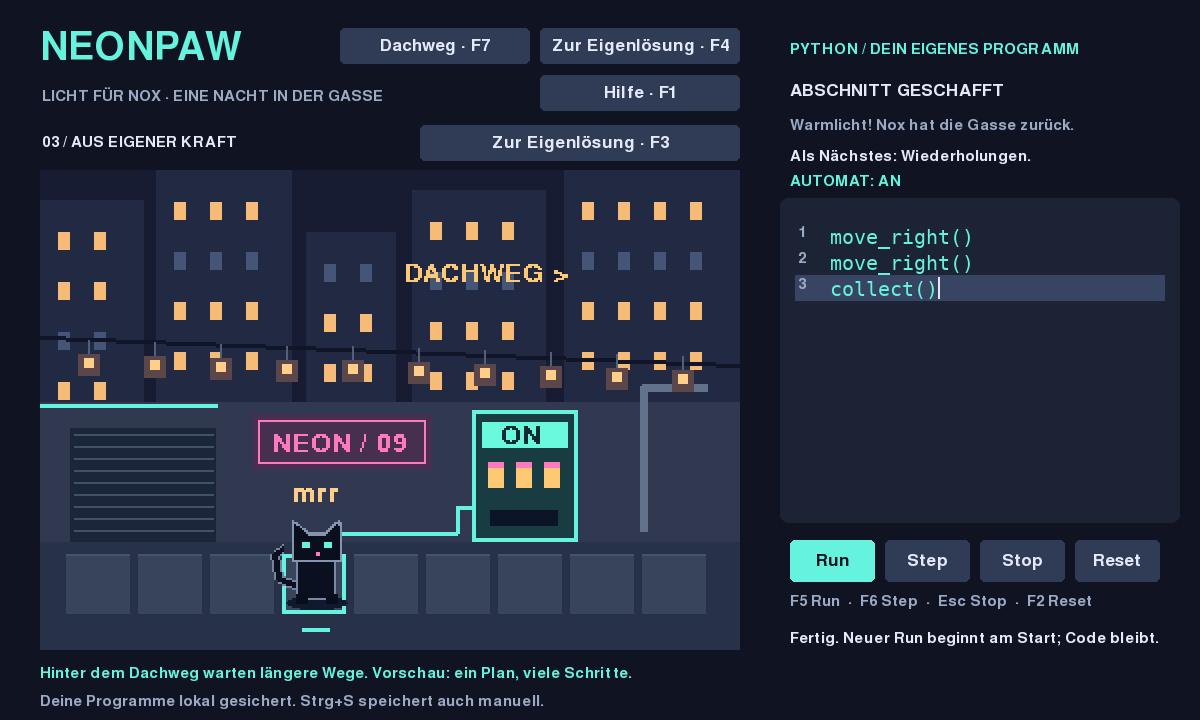
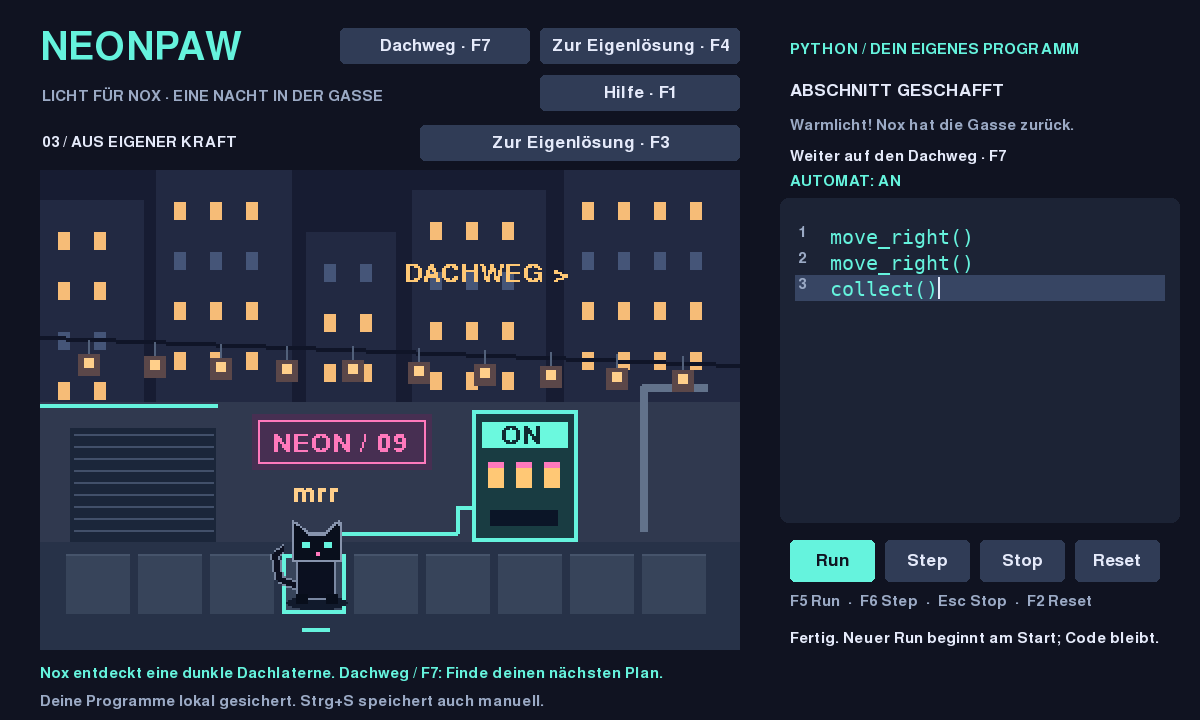
fix: guide completed episode into playable rooftop and verify CI

Changed region(s): [[0.0308, 0.9167, 0.555, 0.9472], [0.6475, 0.2139, 0.8633, 0.2444]]

diff --git a/neonpaw/ui/app.py b/neonpaw/ui/app.py
@@ -461,7 +461,7 @@ class App:
         self.text(heading, (790, 82), INK)
         if world.powered:
             hint = 'Ziel erreicht — mit Codebeispiel.' if self.used_example else 'Warmlicht! Nox hat die Gasse zurück.'
-            instruction = 'Als Nächstes: Wiederholungen.' if self.recall_active else ('Dein eigener Plan? Selbst schreiben mit F4.' if self.scenario else 'Der zweite Anschluss wartet. Weiter mit F3.')
+            instruction = 'Weiter auf den Dachweg · F7' if self.recall_active else ('Dein eigener Plan? Selbst schreiben mit F4.' if self.scenario else 'Der zweite Anschluss wartet. Weiter mit F3.')
         elif self.recall_active:
             hint, instruction = 'Bring das Licht mit deinem eigenen Plan zurück.', 'Deine Eigenlösung wartet unter Zurück.'
         elif self.scenario:
@@ -547,7 +547,7 @@ class App:
             line += word + ' '
         self.text(line, (790, y), PINK if self.runner.error else INK, self.small)
         if world.powered:
-            objective = ('Hinter dem Dachweg warten längere Wege. Vorschau: ein Plan, viele Schritte.'
+            objective = ('Nox entdeckt eine dunkle Dachlaterne. Dachweg / F7: Finde deinen nächsten Plan.'
                          if self.recall_active else 'Nox schnurrt. Dein Programm bringt das Licht zurück in die Gasse.')
         elif self.recall_active:
             objective = 'Baue dein Programm selbst. Deine Eigenlösung bleibt in dieser Sitzung erhalten.'

diff --git a/tests/test_episode.py b/tests/test_episode.py
@@ -55,7 +55,7 @@ def test_power_changes_alley_beyond_machine_and_reset_restores_it():
     pygame.quit()
 
 
-def test_complete_episode_shows_finish_and_honest_preview(monkeypatch):
+def test_complete_episode_invites_playable_roof_and_preserves_solution(monkeypatch):
     pygame.init()
     app = App()
     unlock(app)
@@ -72,9 +72,15 @@ def test_complete_episode_shows_finish_and_honest_preview(monkeypatch):
     monkeypatch.setattr(app, 'text', record)
     app.draw()
     assert 'ABSCHNITT GESCHAFFT' in rendered
-    assert any('Wiederholungen' in line for line in rendered)
+    assert any('Dachweg' in line and 'F7' in line for line in rendered)
+    assert not any('Vorschau' in line for line in rendered)
     assert app.source == SOLUTION
     assert app.runner.world.powered
+    app.handle(pygame.event.Event(pygame.KEYDOWN, key=pygame.K_F7, mod=0))
+    assert app.roof_active and app.runner.world.battery_x == 6
+    assert 'for ' not in app.source
+    app.handle(pygame.event.Event(pygame.KEYDOWN, key=pygame.K_F7, mod=0))
+    assert app.source == SOLUTION and app.recall_active
     pygame.quit()
 
 

diff --git a/CURRENT.md b/CURRENT.md
@@ -1,14 +1,9 @@
-# CURRENT — 2026-11-06 — Dachweg-Checkpoint
+# CURRENT — 2026-11-06 — Dachweg und CI integriert
 
-- M: Branch g0/first-cat-action; Runner-Commit 3461d94. Dachweg-UI und Speichermigration werden im anschließenden Checkpoint gesichert; vollständige SHA mit git log -1 ermitteln.
-- M: Dachweg mit Zielposition 6, sichtbarem Fortschritt, optionaler Schleifenhilfe erst nach erlebter Wiederholung; ausgeschriebene Befehle bleiben gültig. Run/Step/Stop/Reset mit begrenztem for/range. Drei getrennte Entwürfe; alte Speicherversion 1 lesbar, neue Version 2.
-- M: Erneut 130 Tests bestanden. RED-Nachweise: evidence/roof-loops-red.txt (13 failed), roof-ui-red.txt (6 failed); GREEN roof-green.txt. SDL-Offscreen-Smoke laut roof-smoke.txt erfolgreich, einschließlich Dachweg und Entwurfswiederherstellung; kein menschlicher Bediennachweis.
-- M: Beim Automationsauftrag uncommittete Dachweg-Arbeit gefunden und ohne Reset beibehalten. Prozessprüfung: ein aktiver Codex-Hauptprozess mit eigenen Sandbox-Unterprozessen, alte Git-Zombies, kein laufender pytest-/Spielprozess. Keine weiteren Agenten gestartet. Diese lokale Momentaufnahme garantiert keinen globalen Instanzausschluss.
-- M: Keine native Automationsverwaltung verfügbar: gewünschter 60-Minuten-Takt NICHT aktiviert, kein erfolgreicher automatischer Lauf bestätigt. Kein Ersatz-Scheduler eingerichtet. Anforderungen in AUTONOMOUS_LOOP.md.
-- Offen: abschließende visuelle Prüfung der Dachweg-Screenshots, Sicherheits-/README-Dokumentation aktualisieren, Quellbuild erstellen und separat testen, GitHub-Abgleich/Push. PR-Bestand unbekannt (bisher API Forbidden). Menschlicher Lernwert/Spielspaß und nativer Windows-Test offen.
-- Wiederaufnahme: Git-Status und Prozesse zuerst prüfen, vorhandene Arbeit sichern; keine Doppelimplementierung des Dachwegs. NEXT_TASK.md enthält verbleibende Abschlussarbeiten.
-
-## CI-Integration — 2026-11-06
-- M: Lokaler Ausgangspunkt 5d3d559 sauber, Bundle geprüft, 130 Tests reproduziert. Fetch brachte 37aa6fb (CI) und bae7b57 (Handoff); konfliktfreier normaler Merge 13fa15d vereint beide mit dem Dachweg. Workflow unverändert erhalten.
-- M: Nach Integration 130 Tests bestanden; SDL-Smoke sowohl offscreen als auch dummy erfolgreich. Belege: evidence/ci-integration-tests.txt, ci-integration-smoke.txt, ci-dummy-smoke.txt.
-- GitHub-Actions-Ergebnis noch zu prüfen; lokale Tests sind kein CI-Nachweis. Nur Test-CI konfiguriert, kein Codex-Entwicklungs-Scheduler.
+- M: Ausgangspunkt 5d3d559 sauber, Bundle geprüft, 130 Tests reproduziert. Remote enthielt 37aa6fb (CI) plus bae7b57 (Handoff). Normaler konfliktfreier Merge 13fa15d erhält beide Entwicklungsstränge und die unveränderte CI. 08c07aa erfolgreich gepusht und Remote-SHA geprüft.
+- M: GitHub-Actions-Lauf #3 für 08c07aa erfolgreich: https://github.com/essenmitpassion-sudo/Catworld/actions/runs/42239921670 . Über öffentliche Actions-Webseite geprüft; API-Zugriff am Proxy mit 403 gesperrt. Auch Läufe #1/#2 erfolgreich. Auszug evidence/github-ci-integration.json.
+- M: Nach Integration 130 Tests sowie SDL-Smoke mit offscreen und CI-Treiber dummy erfolgreich. Anschließend veraltete Vorschau im Abschluss korrigiert: Dachweg / F7 führt direkt weiter; Eigenlösung bleibt bei Rückkehr erhalten. Reproduzierter RED, danach 130 GREEN und voller SDL-Smoke. evidence/roof-transition-*.txt.
+- M: Spielbar: Einstieg, eigene Ergänzung, Transfer, leerer Abrufeditor, Dachweg mit Ziel 6. Wiederholte Befehle und begrenzte for/range-Schleifen, freiwillige Hinweise, sichtbare Laterne. Drei getrennte Entwürfe, alte Speicherversion lesbar. README/Sicherheitsbeschreibung aktualisiert. Screenshots für Hilfe, Erfolg und Übergang visuell geprüft.
+- Automation: nur Test-CI; kein aktivierter Codex-Entwicklungs-Scheduler. Keine neuen Dienste, API-Keys, Runner oder Eingriffe in andere Anwendungen.
+- Offen: menschlicher Lernwert/Spielspaß, nativer Windows-/DPI-Test, unabhängiger Security-Audit. Build bleibt Python-Quellbuild mit Startskript. Finale SHA über git log -1; Bundle/Build unter /workspace/Catworld-Roof.*.
+- Nächste einzelne Produktaufgabe: Dachweg-Transfer mit verändertem Ziel und selbst angepasster Wiederholungszahl, bisherige Lösung erhalten. Keine neue Sprachidee oder Engine. Vorher echten Git-/Prozessstand und frische Reviews prüfen.

diff --git a/README.md b/README.md
@@ -33,8 +33,9 @@ SDL-Oberfläche offscreen gerendert und über ihre Ereigniswarteschlange geprüf
 2. Eigenen Code für die Batterie ergänzen. Der Automat und die Lampenkette reagieren.
 3. **Weiter / F3:** den zweiten Anschluss mit einer selbst geänderten Folge versorgen.
 4. **Selbst schreiben / F4:** aus leerem Editor einen eigenen Plan bauen.
-5. Am Abschluss den leuchtenden Dachweg entdecken. **Wiederholungen sind ein Ausblick,
-   noch kein freigeschalteter Befehl in diesem Build.**
+5. **Dachweg / F7:** die weiter entfernte Dachlaterne erreichen. Erst bekannte Schritte
+   ausprobieren; nach erlebter Wiederholung bietet F1 freiwillige Hilfe zu `for`/`range`.
+   Schreibe deinen Plan selbst. Zurück / F7 erhält deinen bisherigen Entwurf.
 
 Hilfen bleiben freiwillig. Tippfehler wie `move_rigth()` geben einen konkreten Hinweis,
 ändern den Text aber nicht. Nox bewegt sich animiert, blinzelt und reagiert auf Erfolg;
@@ -71,8 +72,12 @@ Aufnehmen erklärt den Fehler; Reset stellt Batterie und Automaten wieder her.
 Am Ende der Gasse bleibt die Bewegung sicher begrenzt.
 
 Die unterstützte Python-Teilmenge umfasst parameterlose `move_right()`- und `collect()`-Aufrufe, Kommentare,
-Leerzeilen und Python-Anweisungssequenzen. Schleifen und andere Python-Funktionen
-sind noch nicht freigeschaltet. Kein vollständiger Python-Interpreter.
+Leerzeilen und Python-Anweisungssequenzen sowie begrenzte `for name in range(...)`-Schleifen.
+`range` akzeptiert ein bis drei ganzzahlige Literale von -64 bis 64; Schrittweite null
+ist ungültig. Höchstens 64 Schleifendurchläufe insgesamt und 64 ausgeführte Aktionen.
+Keine Verschachtelung, Variablenverwendung oder weiteren Python-Funktionen.
+Step führt auch in Schleifen genau eine Aktion aus; Run setzt pausierte Versuche fort.
+Enter übernimmt die Einrückung, Tab/Shift+Tab rückt ein/aus. Kein vollständiger Python-Interpreter.
 
 ## Vom Vormachen zum eigenen Programm
 
@@ -97,7 +102,7 @@ die drei Hilfestufen bleiben optional. Deine bisherige Eigenlösung wartet unter
 Zurückwechseln erhalten. Reset setzt nur die Welt zurück, nicht deinen Text.
 
 Beim Wechsel innerhalb der Sitzung bleiben beide Texte, Cursor und Hilfestatus
-erhalten. Beide Texte und die Kennzeichnung verwendeter Beispiele werden zusätzlich
+erhalten. Beide Texte sowie der getrennte Dachweg-Entwurf und verwendete Beispiele werden zusätzlich
 lokal gespeichert und nach einem Spielneustart wiederhergestellt. Die Welt startet
 am Anfang; geladener Code läuft erst nach Run oder Step.
 Ein leeres Programm schaltet den Automaten nicht ein. Erfolg zeigt die Weltreaktion,

diff --git a/G0_SECURITY.md b/G0_SECURITY.md
@@ -2,15 +2,21 @@
 
 Der Runner interpretiert ausschliesslich vollständig validierte AST-Formen
 `Expr(Call(Name(action), args=[], keywords=[]))` mit action aus der festen Menge
-`move_right`, `collect`. Aus dem AST werden nur
+`move_right`, `collect`, zusätzlich begrenzte Top-Level-For-Schleifen. Aus dem AST werden nur
 Zeilennummern und validierte Aktionsnamen übernommen, keine ausführbaren Python-Objekte. Es gibt weder eval,
 exec, compile-Ausführung, dynamische Imports noch Spielercode-I/O.
 Python wird mit ast.parse gelesen; Grammatik, Kommentare und Reihenfolge entsprechen
 der ausdrücklich unterstützten Teilmenge. Alle anderen Konstrukte werden abgewiesen.
 
 Budgets: 4096 Zeichen vor dem Parser, 320 AST-Knoten, Tiefe 16, 64 Befehle,
-64 Ausführungsschritte. Konstanten/Container/Schleifen/Rekursion werden nicht
-interpretiert. Ein Tick verarbeitet höchstens einen Befehl, auch nach langen Frames.
+64 Ausführungsschritte. For-Schleifen erlauben nur `range` mit 1–3 vorzeichenbehafteten
+ganzzahligen Literalen (Betrag höchstens 64, kein bool, keine Ausdrücke, Schrittweite
+ungleich null). Python-range-Semantik, auch leere und absteigende Bereiche. Höchstens
+64 Durchläufe insgesamt und 64 expandierte Aktionen, vor Expansion geprüft.
+Schleifenvariable nur einfacher Name, ohne Überschreiben von range oder Aktionsnamen;
+keine Verwendung der Variable im Rumpf. Keine Verschachtelung, for-else, break oder
+continue. Auch leere Schleifenrümpfe werden vollständig statisch validiert.
+Container, Rekursion und allgemeine Ausdrucksauswertung bleiben ausgeschlossen. Ein Tick verarbeitet höchstens einen Befehl, auch nach langen Frames.
 Stop wird vor dem nächsten Tick verarbeitet. Ein ungültiges Programm wird vollständig
 abgewiesen, bevor irgendeine seiner Aktionen ausgeführt wird. Weltzustand ist immutable.
 
@@ -42,3 +48,7 @@ AST-Prüfung. Keine Ausführung von JSON, keine Pfade aus gespeicherten Daten.
 Temporärdatei + fsync + atomarer Ersatz sichern gültige Schreibvorgänge; vorherige
 Fassung als Backup. Beschädigte Originale bleiben zur Wiederherstellung erhalten.
 Dies bleibt keine allgemeine Sandbox für fremde Python-Programme.
+
+Dachweg-Speicherformat: Version 2 ergänzt einen separaten Dachentwurf; Version 1
+bleibt lesbar. Alle drei Programme teilen die Dateigröße von höchstens 65536 Bytes;
+diese Grenze wird auch vor dem Schreiben der UTF-8-JSON-Datei geprüft.

diff --git a/NEXT_TASK.md b/NEXT_TASK.md
@@ -1,11 +1,15 @@
-# Nächste Aufgabe: Dachweg abschließen, dann Transfer
+# Nächste Aufgabe: Wiederholung übertragen
 
-Dachweg und begrenzte for/range-Ausführung sind implementiert, 130 Tests grün.
-Nicht erneut implementieren. Zuerst Prozesse/Git-Status und neue Reviews prüfen.
+Dachweg und for/range sind umgesetzt; nicht doppelt implementieren. 130 Tests und
+SDL-Smokes grün. CI-Integration auf GitHub erfolgreich (Lauf #3, 08c07aa).
 
-1. Screenshot evidence/roof-start.png, roof-hint.png, roof-solved.png visuell prüfen.
-2. Speicherformat-2-Grenzfälle und Rückkehr aus aktivem Abruf überprüfen; nur relevante Fehler mit RED/GREEN korrigieren. README und Sicherheitsdokumentation an erlaubte Schleifen und drei Entwürfe anpassen.
-3. Vollständige Tests/SDL-Smoke, zusammenhängenden Quellbuild erzeugen und aus ZIP erneut testen; Commit/Bundle sichern, GitHub-Push und Remote-SHA prüfen. Keine automatischen Merges.
-4. Danach kleinster Lerntransfer: verändertes Dachziel, Anzahl selbst anpassen, bisherige Lösung erhalten. Keine weitere Python-Syntax nötig. Menschlichen Lernwert nicht aus Tests ableiten.
+Nächster kleiner Lernfortschritt: Nach eigener Dachlösung wartet eine Laterne an
+einem anderen Standort. Spieler beobachtet, passt seine Wiederholungszahl an und
+sieht das Ergebnis. Keine automatische Komplettlösung, Hinweise freiwillig. Alte
+Dachlösung und alle bisherigen Entwürfe erhalten, auch bei Neustart. Keine zusätzliche
+Python-Syntax. Persistenzmigration zuerst durch Tests absichern, falls nötig.
 
-Automation: 60 Minuten vom Owner gewünscht, hier nicht eingerichtet; keine native Verwaltungsfunktion verfügbar. Kein bestätigter erster automatischer Lauf. Keine Ersatz-Scheduler bauen.
+Zuerst Git-/Prozessstand und neue Reviews prüfen; lokale Arbeit vor Fetch sichern.
+Dann RED/GREEN, bestehende Programme erhalten, vollständige Regression/SDL-Smoke,
+Commit und Bundle, Push/CI prüfen. Keine parallelen Writer oder automatischen Merges.
+Nur Test-CI aktiv; kein 60-Minuten-Codex-Scheduler. Menschlicher Lernwert bleibt offen.

diff --git a/LEARNINGS.md b/LEARNINGS.md
@@ -37,3 +37,7 @@ G/M: Der Abrufschritt bewahrte zwei Texte nur im Speicher. Ein Spielneustart kon
 
 ### L015 — 2026-11-06 — Technische Bausteine ergeben noch keinen Spielabschnitt
 G/O: Bewegung, Batterie, Transfer und Abruf waren vorhanden, aber Owner verlangte einen zusammenhängenden, motivierenden Abschnitt. Gegenmassnahme: gemeinsames Weltziel „Licht für Nox“, kurze Übergänge, animierte Reaktion ohne Eingriff in die Weltregeln, sichtbare Lampenkette und klarer Abschluss mit ausdrücklich zukünftigem Ausblick. M: test_power_changes_alley_beyond_machine_and_reset_restores_it sowie vollständiger SDL-/Video-Durchlauf prüfen Weltreaktion und Reihenfolge. Ob daraus mehr Freude/Neugier entsteht, bleibt V bis zum Menschentest; keine FUN_PASS-Aussage.
+
+## 2026-11-06 — Dachweg-Integration
+- Ein API-403 beweist keinen fehlgeschlagenen GitHub-Lauf: Die öffentliche Actions-Webseite lieferte hier Commit-Zuordnung und erfolgreichen Abschluss, ohne neuen Dienst oder Zugangsdaten.
+- Beim Freischalten einer Vorschau müssen auch bestehende Abschlussmeldungen nachgezogen werden. Der alte Text bezeichnete den fertigen Dachweg weiter als Vorschau; korrigiert und Übergang samt Rückkehr zur Eigenlösung geprüft.
